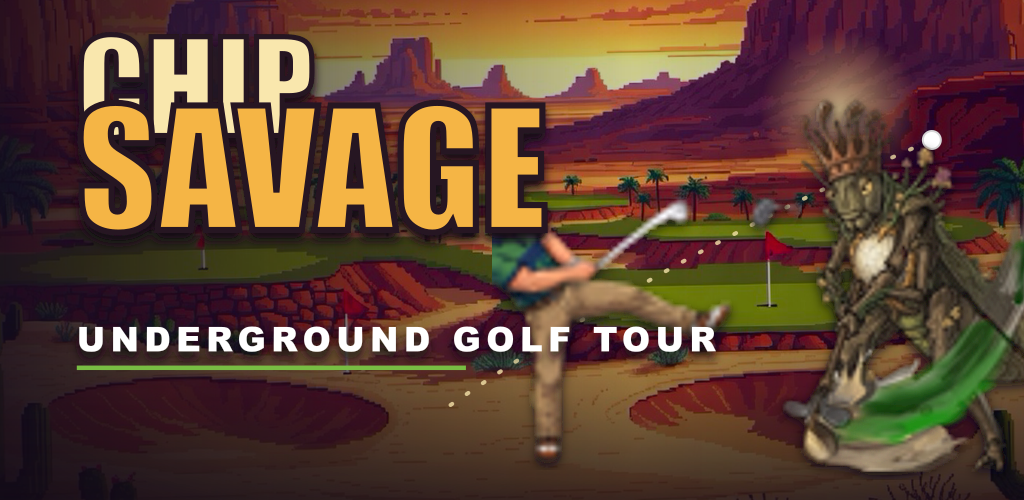
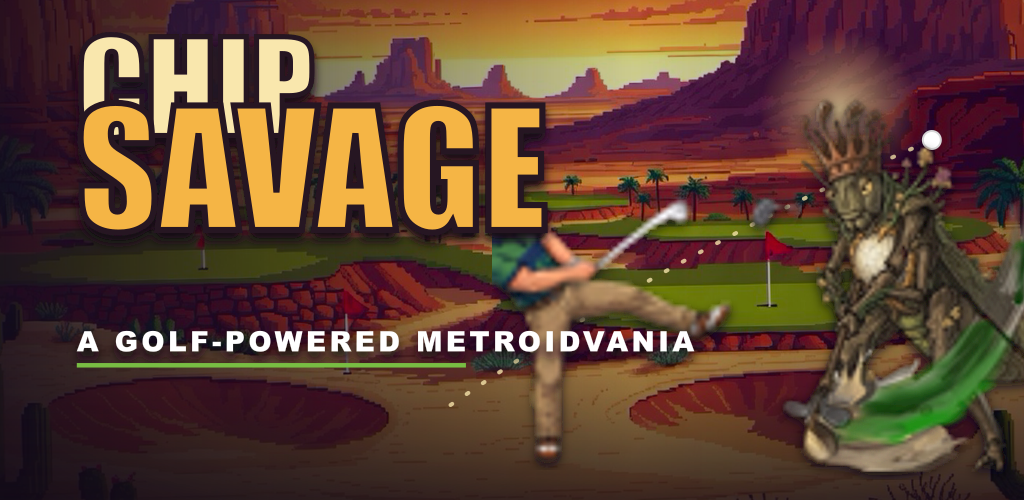
Update storefront tagline and subtitle sizing
Changes the promotional artwork subtitle from "UNDERGROUND GOLF TOUR" to "A GOLF-POWERED METROIDVANIA" and reduces the subtitle font size and letter-spacing for better fit. Regenerates all three storefront PNG exports accordingly.

Changed region(s): [[0.0625, 0.63, 0.7188, 0.75]]

diff --git a/assets/storefront/README.md b/assets/storefront/README.md
@@ -2,11 +2,11 @@
 
 Generated promotional artwork built entirely from the game's existing sprites and backgrounds.
 
-| File                              |        Size | Intended use                                        |
-| --------------------------------- | ----------: | --------------------------------------------------- |
-| `feature-graphic-1024x500.png`    |  1024 x 500 | Google Play feature graphic                         |
-| `store-poster-1080x1350.png`      | 1080 x 1350 | Portrait promotional post or store editorial art    |
-| `social-preview-1200x630.png`     |  1200 x 630 | Open Graph and social sharing preview                |
+| File | Size | Intended use |
+| --- | ---: | --- |
+| `feature-graphic-1024x500.png` | 1024 x 500 | Google Play feature graphic |
+| `store-poster-1080x1350.png` | 1080 x 1350 | Portrait promotional post or store editorial art |
+| `social-preview-1200x630.png` | 1200 x 630 | Open Graph and social sharing preview |
 
 Regenerate all exports from the repository root:
 
